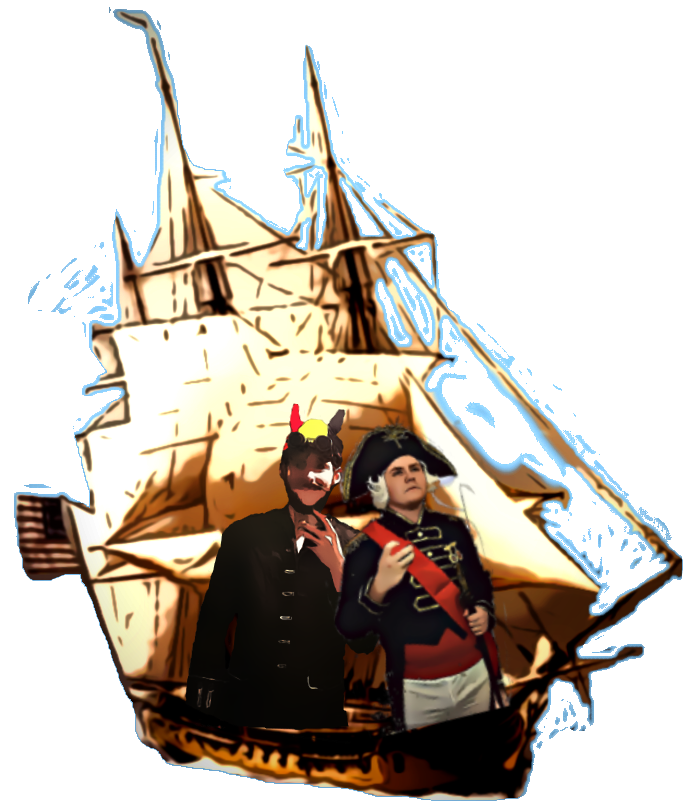
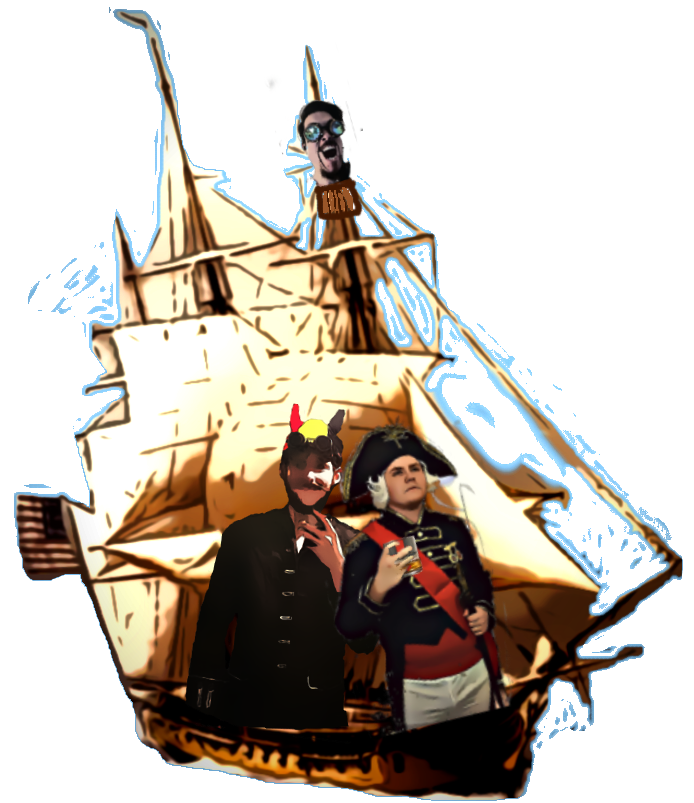
Updated Donate link + Eric

Changed region(s): [[0.4236, 0.1245, 0.5447, 0.2802], [0.5447, 0.6538, 0.6052, 0.7161]]

diff --git a/extra-life/wwwroot/js/site.js b/extra-life/wwwroot/js/site.js
@@ -10,11 +10,13 @@ app.renderer.backgroundColor = 0x3086D2;
 //load an image and run the `setup` function when it's done
 PIXI.Loader
 	.shared
+	.add("Content/extra-life-Logo.jpg")
 	.add("Content/Frigate_cartoonized.png")
 	.add("Content/twitch.png")
 	.load(setup);
 
 let ship;
+let donate;
 let twitch;
 
 function setup() {
@@ -38,6 +40,14 @@ function setup() {
 	twitch.interactive = true;
 	app.stage.addChild(twitch);
 
+	donate = new PIXI.Sprite(PIXI.loader.resources["Content/extra-life-Logo.jpg"].texture);
+	donate.width = 100;
+	donate.height = 100;
+	donate.on('mousedown', handleDonateClick);
+	donate.on('touchend', handleDonateClick);
+	donate.interactive = true;
+	app.stage.addChild(donate);
+
 	window.addEventListener('resize', resize);
 	app.stage.interactive = true;
 	app.stage.on("pointermove", movePointer);
@@ -51,7 +61,8 @@ function setup() {
 		// You can use the 'screen' property as the renderer visible
 		// area, this is more useful than view.width/height because
 		// it handles resolution
-		twitch.position.set(app.screen.width - 100, app.screen.height - 100);
+		twitch.position.set(app.screen.width - 100, app.screen.height - 120);
+		donate.position.set(app.screen.width - 220, app.screen.height - 120);
 	}
 
 	resize();
@@ -116,7 +127,11 @@ function movePointer(e) {
 }
 
 function handleTwitchClick(e) {
-	window.href("https://www.twitch.tv/videos/503386472", "_self");
+	window.open("https://www.twitch.tv/videos/503386472", "_self");
+}
+
+function handleDonateClick(e) {
+	window.open(" https://www.extra-life.org/index.cfm?fuseaction=donorDrive.participant&participantID=435146", "_self");
 }
 
 /// Expects 2 objects each with an X and a Y coordinate and a width & height.
